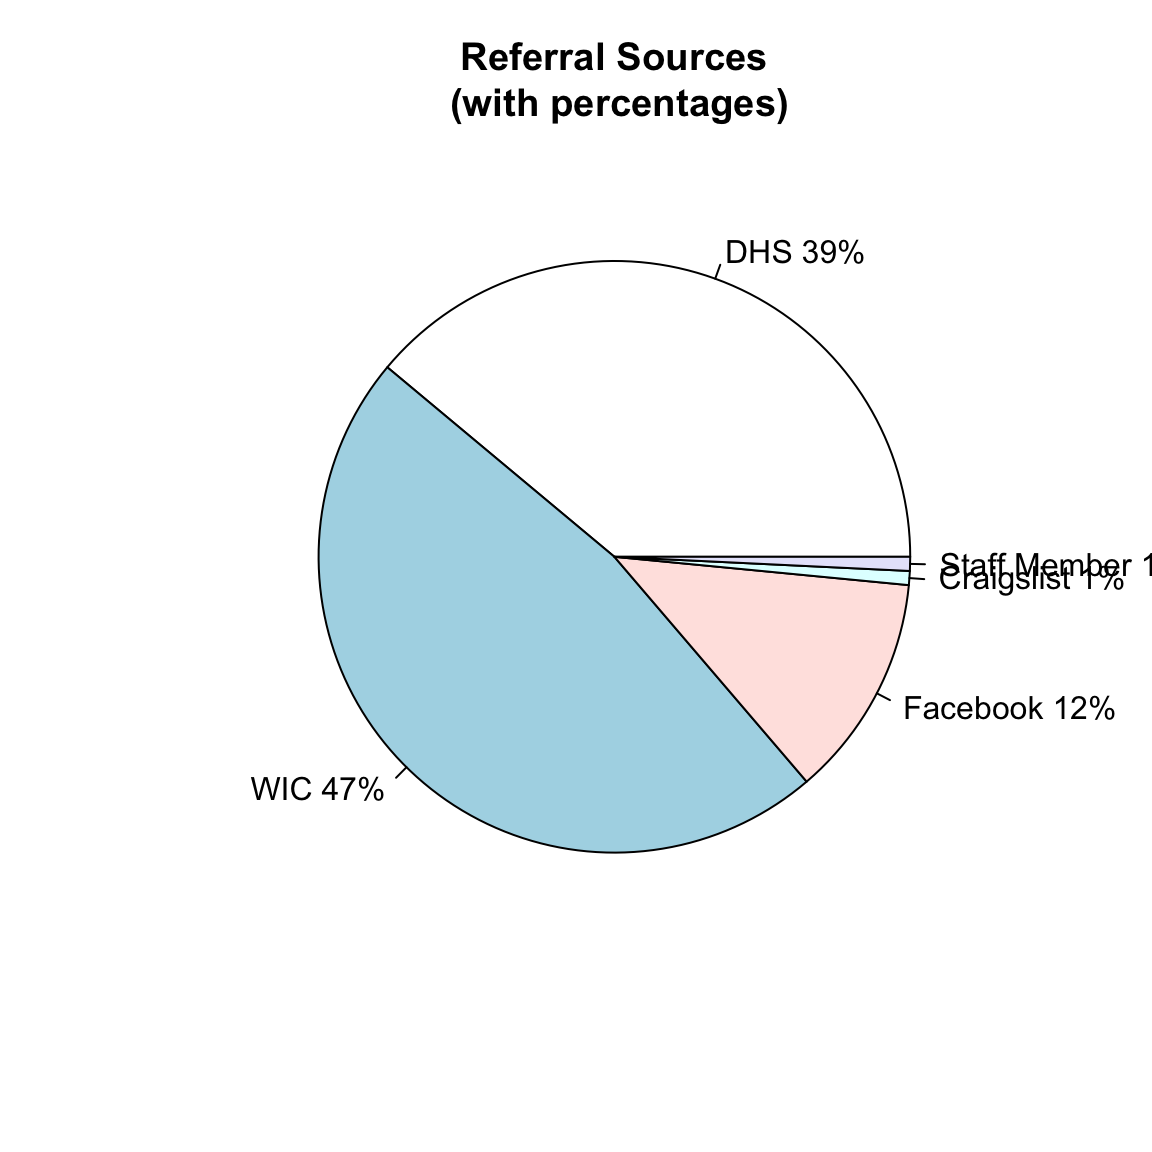
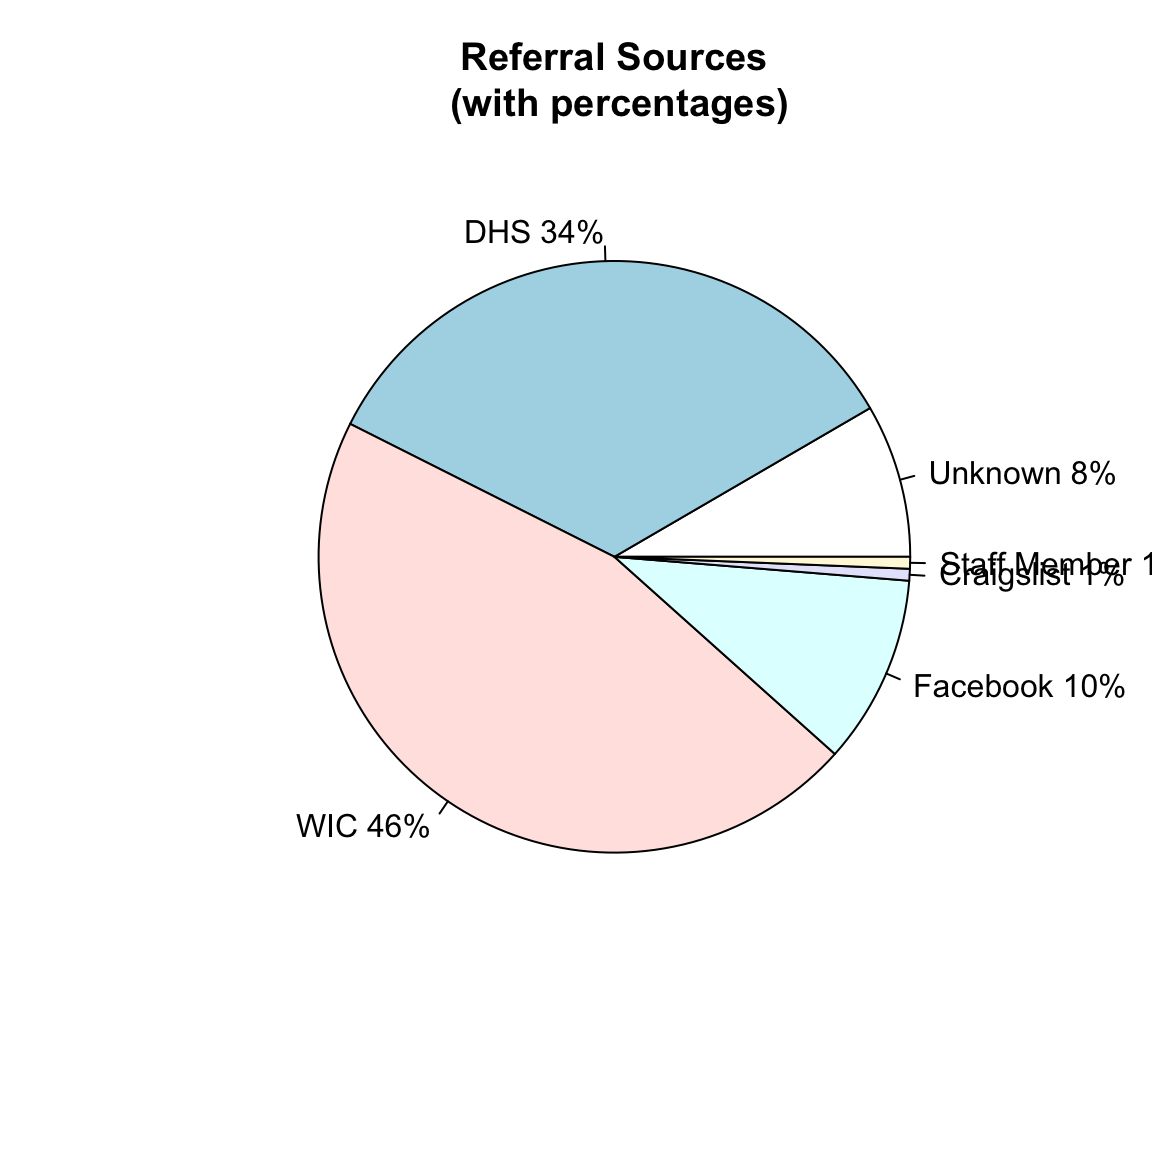
Update 05NOV2020 data

Changed region(s): [[0.25, 0.1875, 0.9688, 0.75], [0.8125, 0.4062, 0.9688, 0.4375], [0.2188, 0.6562, 0.25, 0.6875]]

diff --git a/_site/Consort.html b/_site/Consort.html
@@ -363,7 +363,7 @@ $(document).ready(function () {
 
 
 <div id="htmlwidget-dced913909e2394732a2" style="width:672px;height:480px;" class="grViz html-widget"></div>
-<script type="application/json" data-for="htmlwidget-dced913909e2394732a2">{"x":{"diagram":"digraph {\ngraph[rankdir=TD]\nnode[shape = rectangle, style = filled, fontsize = 20]\nsubgraph cluster_1 {\n  graph[shape = rectangle, fontsize = 28, face = \"bold\"]\n  style = rounded\n  bgcolor = Gold\n  \n  label = < <font> <b>Pre-Consent<\/b> <\/font> >\n  node[shape = rectangle, fillcolor = LemonChiffon, margin = 0.25]\n  A [label = \"Total in DK Log (n = 151)\"]\n  B [label = \"Total Interested (n = 73)\"]\n  C [label = \"Total Eligible (n = 52)\"]\n  D [label = \"Not Interested (n = 13)\", href=\"./Sources.html\"]\n  F [label = \"Total Not Eligible (n = 34)\"]\n}\nsubgraph cluster_2 {\n  graph[shape = rectangle, fontsize = 28]\n  style = rounded\n  bgcolor = Tomato\n  \n  label = < <font> <b>Consented<\/b> <\/font> >\n  node[shape = rectangle, fillcolor = MistyRose, margin = 0.25 ]\n  L [label = \"Intervention Complete (n = 3)\"]\n  K [label = \"Wave 1 Assessment Dropout (n = 4)\"]\n  M [label = \"Intervention Dropout (n = 1)\"]\n  N [label = \"Wave 2 Complete (n = 2)\"]\n  O [label = \"Wave 2 Dropout (n = 1)\"]\n  P [label = \"Wave 3 Complete (n = 0)\"]\n  Q [label = \"Wave 3 Dropout (n = 0)\"]\n  T [label = \"Wave 1 Assessment Complete (n = 14)\"]\n}\nA->B; A->D;  \nB->C; B->F;\nC->K;C->T;\nT->L; T->M;\nL->N;L->O;\nN->P; N->Q;\n}\n\n#Define Labels","config":{"engine":"dot","options":null}},"evals":[],"jsHooks":[]}</script>
+<script type="application/json" data-for="htmlwidget-dced913909e2394732a2">{"x":{"diagram":"digraph {\ngraph[rankdir=TD]\nnode[shape = rectangle, style = filled, fontsize = 20]\nsubgraph cluster_1 {\n  graph[shape = rectangle, fontsize = 28, face = \"bold\"]\n  style = rounded\n  bgcolor = Gold\n  \n  label = < <font> <b>Pre-Consent<\/b> <\/font> >\n  node[shape = rectangle, fillcolor = LemonChiffon, margin = 0.25]\n  A [label = \"Total in DK Log (n = 155)\"]\n  B [label = \"Total Interested (n = 79)\"]\n  C [label = \"Total Eligible (n = 55)\"]\n  D [label = \"Not Interested (n = 13)\", href=\"./Sources.html\"]\n  F [label = \"Total Not Eligible (n = 55)\"]\n}\nsubgraph cluster_2 {\n  graph[shape = rectangle, fontsize = 28]\n  style = rounded\n  bgcolor = Tomato\n  \n  label = < <font> <b>Consented<\/b> <\/font> >\n  node[shape = rectangle, fillcolor = MistyRose, margin = 0.25 ]\n  L [label = \"Intervention Complete (n = 3)\"]\n  K [label = \"Wave 1 Assessment Dropout (n = 4)\"]\n  M [label = \"Intervention Dropout (n = 1)\"]\n  N [label = \"Wave 2 Complete (n = 2)\"]\n  O [label = \"Wave 2 Dropout (n = 1)\"]\n  P [label = \"Wave 3 Complete (n = 0)\"]\n  Q [label = \"Wave 3 Dropout (n = 0)\"]\n  T [label = \"Wave 1 Assessment Complete (n = 14)\"]\n}\nA->B; A->D;  \nB->C; B->F;\nC->K;C->T;\nT->L; T->M;\nL->N;L->O;\nN->P; N->Q;\n}\n\n#Define Labels","config":{"engine":"dot","options":null}},"evals":[],"jsHooks":[]}</script>
 
 
 

diff --git a/_site/Sources.html b/_site/Sources.html
@@ -378,10 +378,18 @@ Counts
 <tbody>
 <tr>
 <td style="text-align:left;">
+Unknown
+</td>
+<td style="text-align:right;">
+13
+</td>
+</tr>
+<tr>
+<td style="text-align:left;">
 DHS
 </td>
 <td style="text-align:right;">
-51
+53
 </td>
 </tr>
 <tr>
@@ -389,7 +397,7 @@ DHS
 WIC
 </td>
 <td style="text-align:right;">
-62
+71
 </td>
 </tr>
 <tr>
